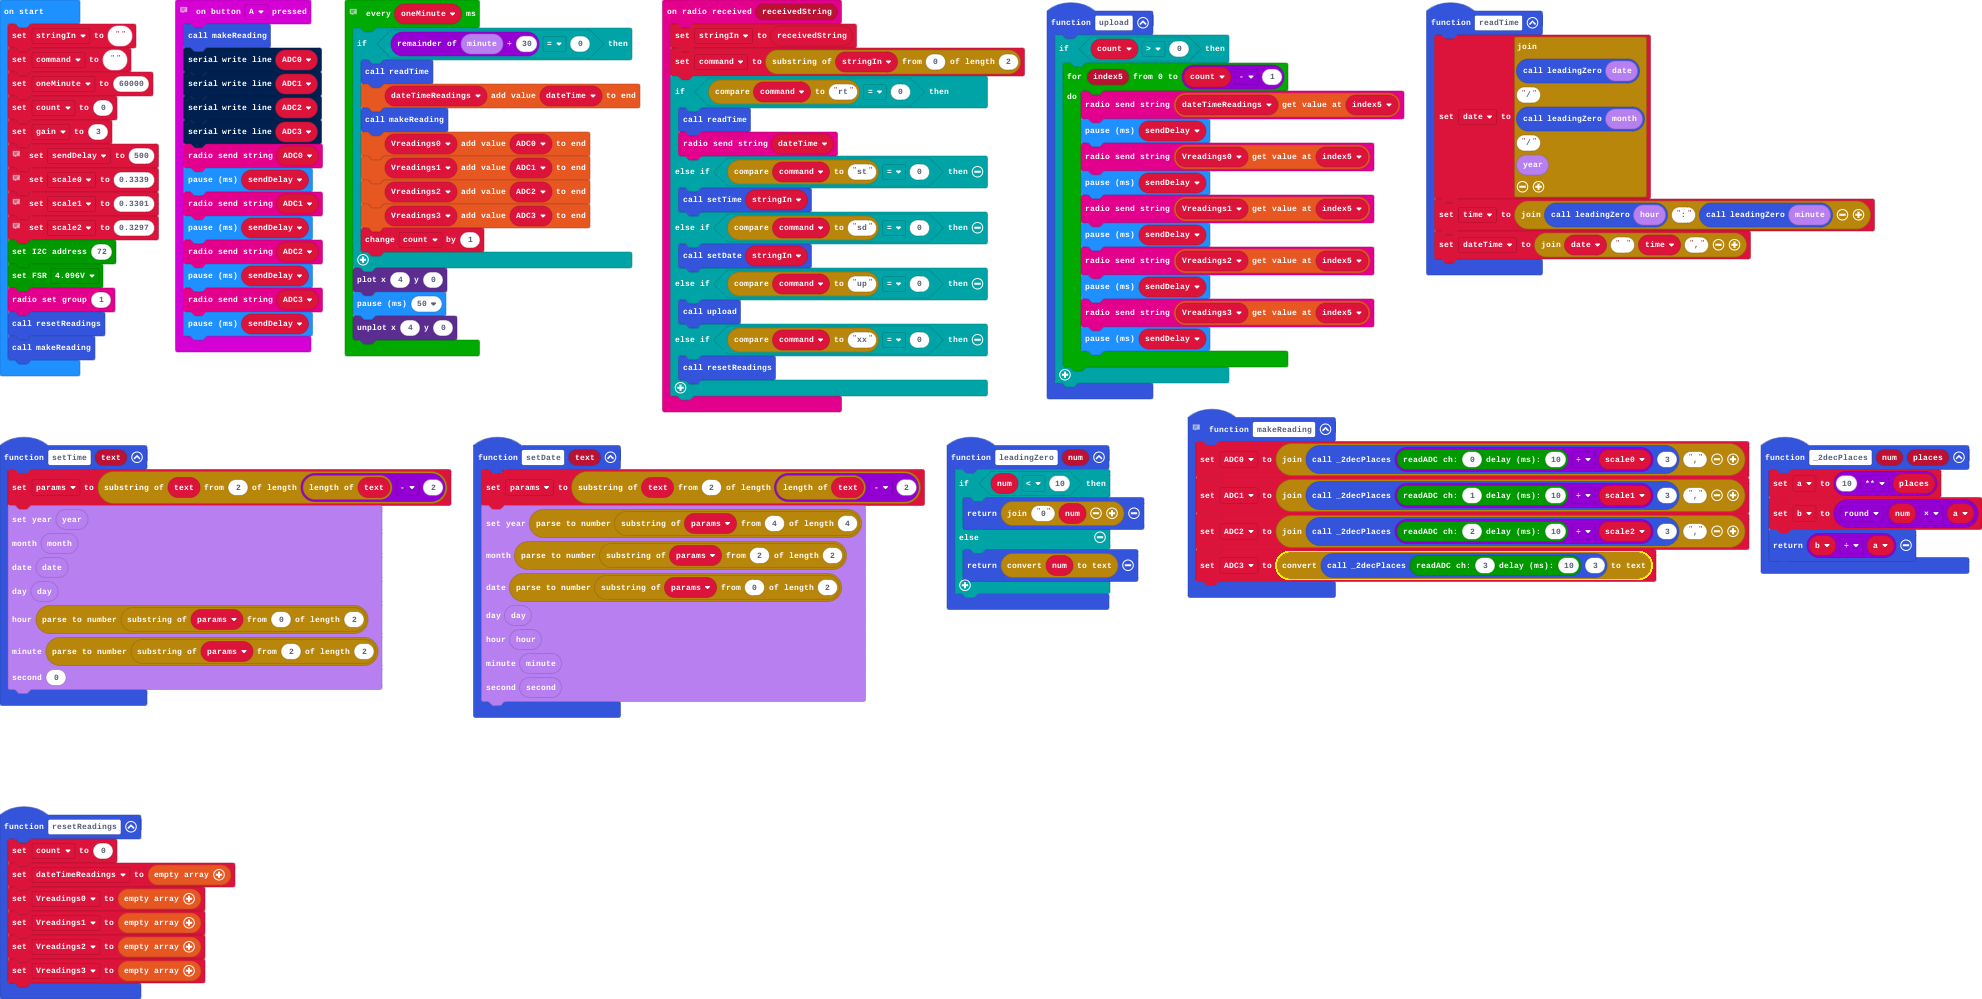
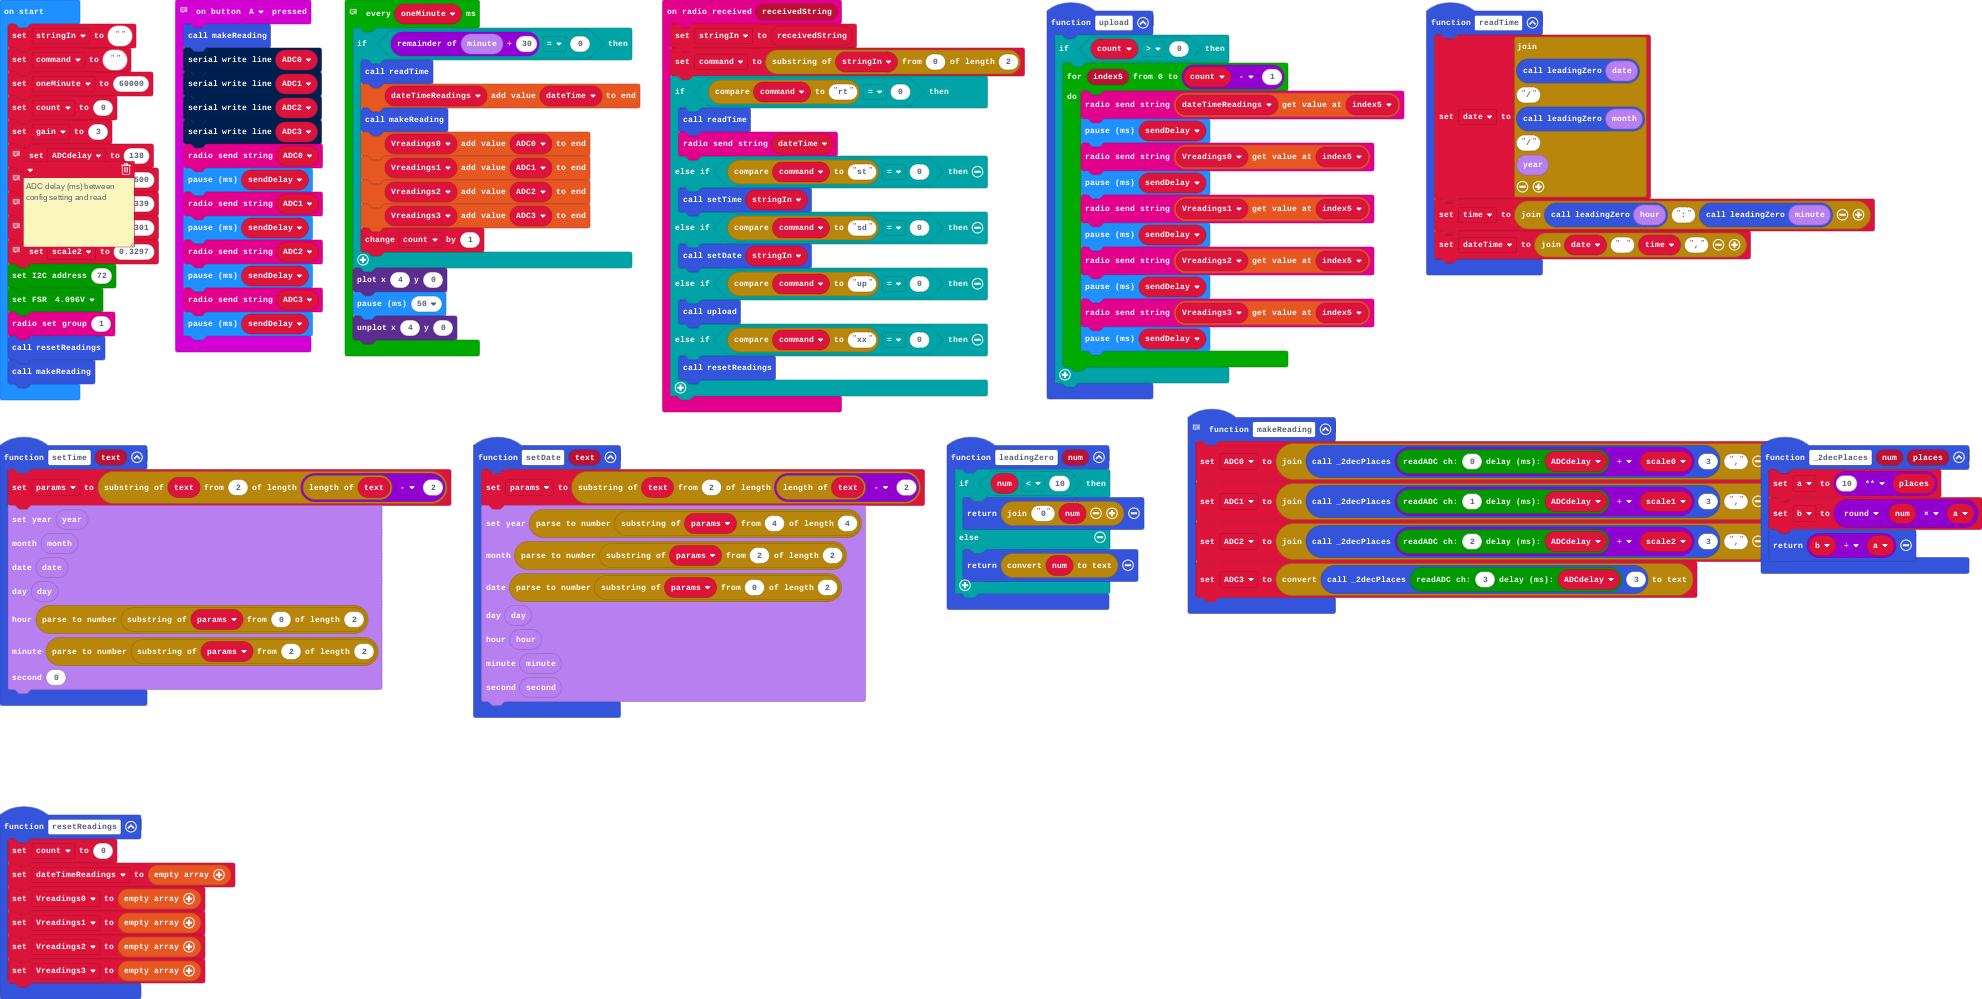
Update main.blocks, main.ts

Changed region(s): [[0.5848, 0.4344, 0.8925, 0.6206], [0.0, 0.1552, 0.0923, 0.4034]]

diff --git a/main.ts b/main.ts
@@ -5,10 +5,10 @@ function readTime () {
 }
 // Round to 3 dec places, and multiply by gain for attenuated inputs
 function makeReading () {
-    ADC0 = "" + _2decPlaces(ADS1115.readADC(0, 10) / scale0, 3) + ","
-    ADC1 = "" + _2decPlaces(ADS1115.readADC(1, 10) / scale1, 3) + ","
-    ADC2 = "" + _2decPlaces(ADS1115.readADC(2, 10) / scale2, 3) + ","
-    ADC3 = convertToText(_2decPlaces(ADS1115.readADC(3, 10), 3))
+    ADC0 = "" + _2decPlaces(ADS1115.readADC(0, ADCdelay) / scale0, 3) + ","
+    ADC1 = "" + _2decPlaces(ADS1115.readADC(1, ADCdelay) / scale1, 3) + ","
+    ADC2 = "" + _2decPlaces(ADS1115.readADC(2, ADCdelay) / scale2, 3) + ","
+    ADC3 = convertToText(_2decPlaces(ADS1115.readADC(3, ADCdelay), 3))
 }
 function resetReadings () {
     count = 0
@@ -121,6 +121,7 @@ let scale2 = 0
 let scale1 = 0
 let scale0 = 0
 let sendDelay = 0
+let ADCdelay = 0
 let count = 0
 let command = ""
 let stringIn = ""
@@ -129,6 +130,8 @@ command = ""
 let oneMinute = 60000
 count = 0
 let gain = 3
+// ADC delay (ms) between config setting and read
+ADCdelay = 138
 // Delay between sending Radio messages
 sendDelay = 500
 // Accurate scaling for attenuators
